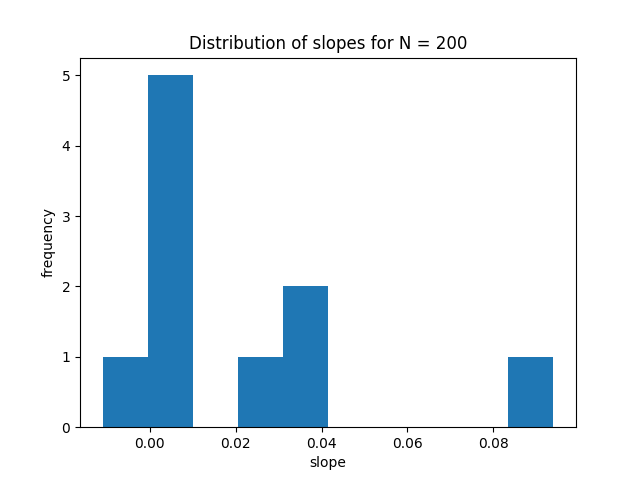
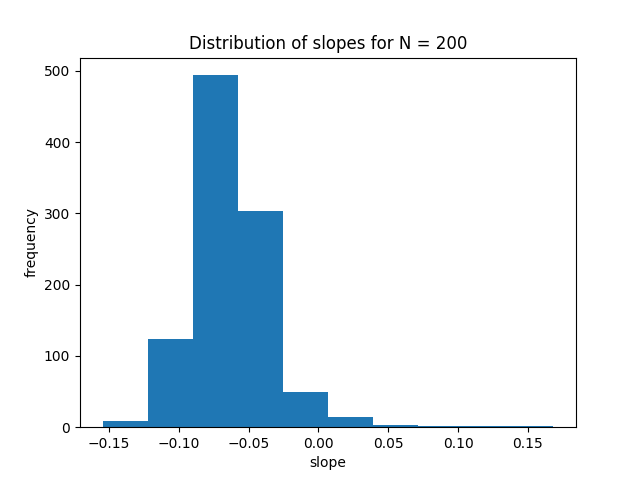
find the distribution of slopes

diff --git a/dist.py b/dist.py
@@ -34,7 +34,7 @@ if __name__ == '__main__':
 
     N = 200
     slopes = []
-    for N in range(10):
+    for N in range(1000):
         N = N + 1
         print(N)
         rv = slope(N, din, dowt, dhidden, lr, epochs, device)
